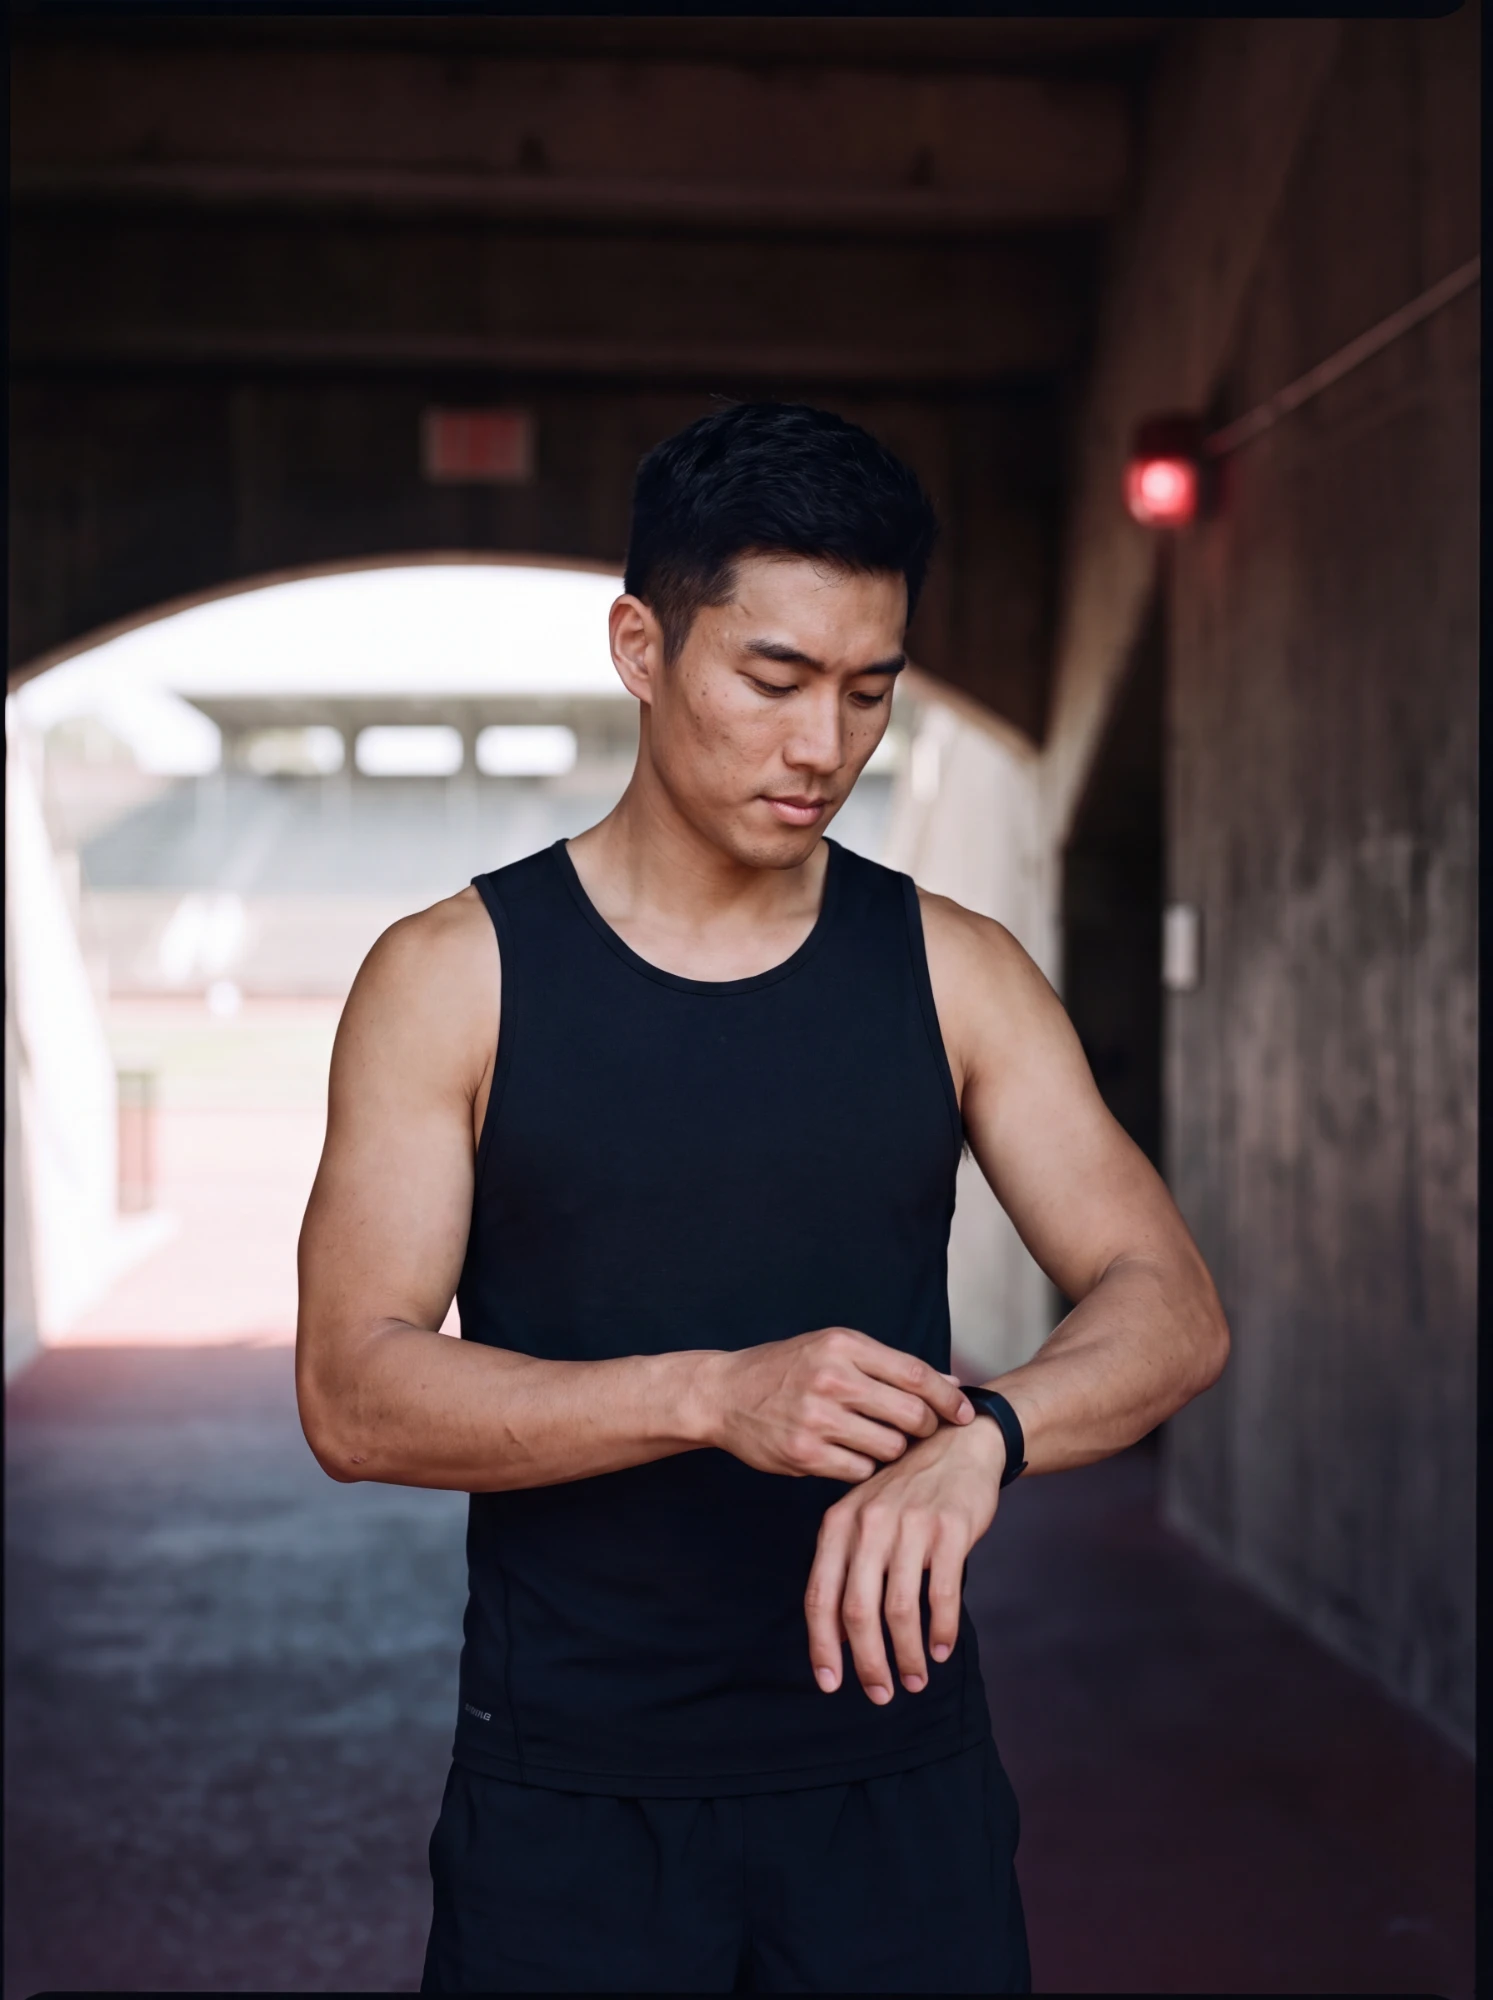
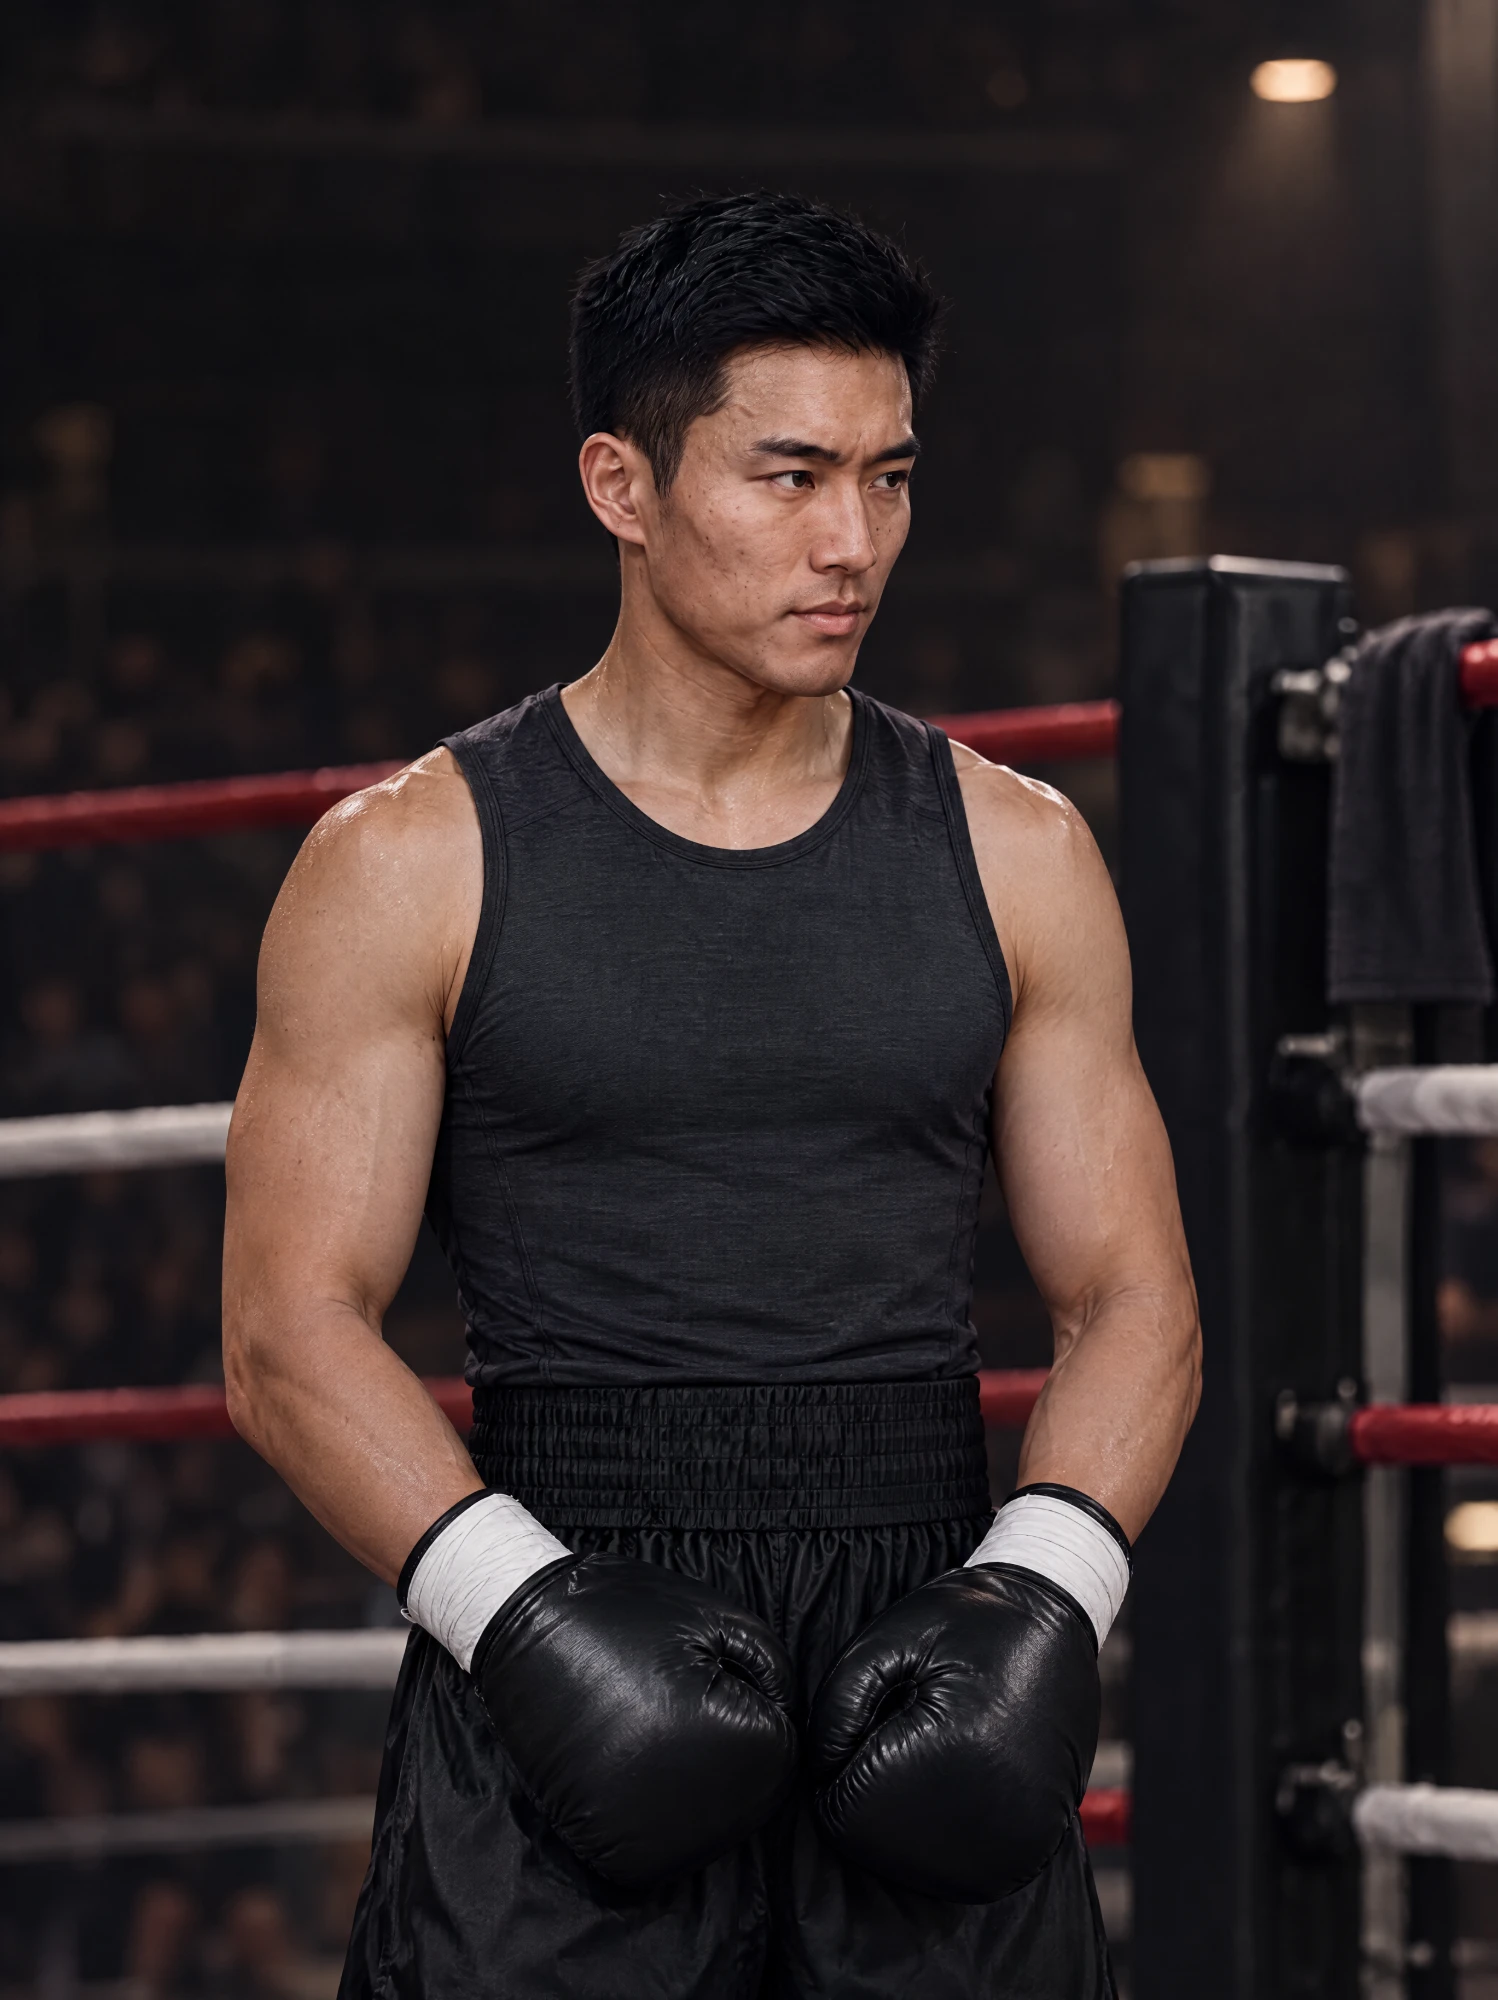
feat(site): homepage Competitor photo — boxer in the ring
Replaces the stadium-tunnel shot with the ring photo, which also matches
the card's line ("Composure before the first bell."). Same file name and
same 3:4 frame (1498x2000), so the card geometry is unchanged; alt text
updated to describe the new photo.

diff --git a/aforce-site/index.html b/aforce-site/index.html
@@ -846,7 +846,7 @@
       <div class="reveal">Precision is a state you enter, not a switch you flip.</div>
     </div>
     <div class="arena fade-in">
-      <div class="shot"><img src="assets/perf-competitor.webp" alt="An athlete in a black training top checking his watch in a stadium tunnel, the track beyond" width="1493" height="2000" loading="lazy"></div>
+      <div class="shot"><img src="assets/perf-competitor.webp" alt="A boxer in a black tank top and gloves standing in the ring before the fight" width="1498" height="2000" loading="lazy"></div>
       <div class="cap"><span class="role">Competitor</span><span class="idx">02</span></div>
       <div class="line">Composure before the first bell.</div>
       <div class="reveal">The fight is won in the hours no one sees.</div>
